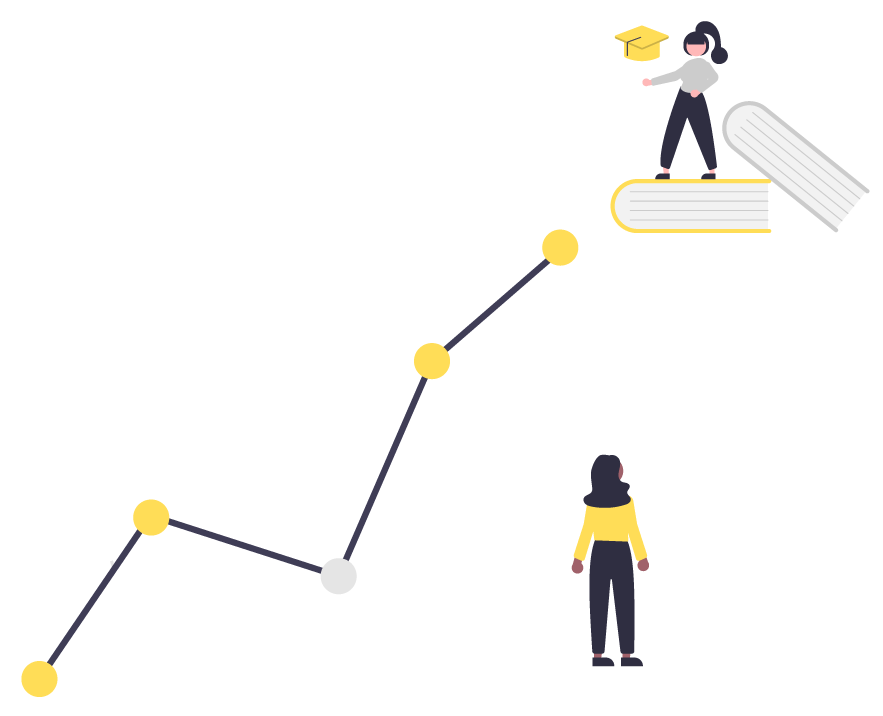
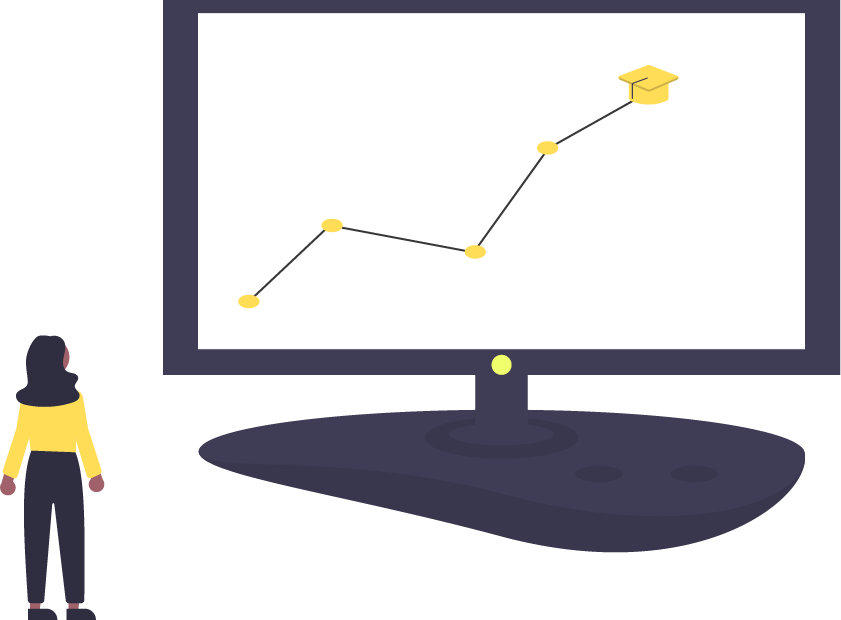
fix home page (front)

diff --git a/resources/views/components/navbar.blade.php b/resources/views/components/navbar.blade.php
@@ -2,8 +2,8 @@
     <nav class="navbar">
         <div class="container">
             <div class="navbar-brand">
-                <a  href="../">
-                    <img src="{{asset('/images/logo_siraj.png')}}" width="120">
+                <a href="../">
+                    <img src="{{ asset('/images/logo_siraj.png') }}" width="120">
                 </a>
                 <span class="navbar-burger burger" data-target="navbarMenu">
                     <span></span>
@@ -11,38 +11,48 @@
                     <span></span>
                 </span>
             </div>
-            <div id="navbarMenu" class="navbar-menu">
+            <div id="navbarMenu" class="navbar-menu  is-family-cairo">
                 <div class="navbar-end">
                     <span class="navbar-item">
-                        <a class="button is-warning  has-text-black is-outlined" href="{{ route('home') }}">
+                        <a class="button is-warning  has-text-black is-outlined" href="{{ route('home') }}"
+                            style="border: none">
                             <span class="icon">
-                                <i class="mdi mdi-home"></i>
+                                <i class="mdi mdi-home" style="font-size: 1.5rem"></i>
                             </span>
-                            <span>Home</span>
+                            <span style="font-size:1.2rem">Home</span>
                         </a>
                     </span>
                     <span class="navbar-item">
-                        <a class="button is-warning  has-text-black is-outlined" href="{{ route('course.index') }}">
+                        <a class="button  is-warning has-text-black is-outlined"
+                            href="{{ route('course.index') }}" style="
+                        border: none;
+                        ">
                             <span class="icon">
-                                <i class="mdi mdi-school"></i>
+                                <i class="mdi mdi-school"style="font-size: 1.5rem"></i>
                             </span>
-                            <span>Courses</span>
+                            <span style="font-size:1.2rem">Courses</span>
+                        </a>
+                    </span>
+                    <span class="navbar-item divclass">
+                        <a class="button is-warning has-text-black is-outlined" href="{{ route('login') }}"
+                            style="
+                        border: none;
+                        ">
+                            <span class="icon">
+                                <i class="mdi mdi-login"style="font-size: 1.5rem"></i>
+                            </span>
+                            <span style="font-size:1.2rem">Login</span>
                         </a>
                     </span>
                     <span class="navbar-item">
-                        <a class="button is-warning has-text-black is-outlined" href="{{ route('login') }}">
+                        <a class="button is-warning  has-text-black is-outlined" href="{{ route('register') }}"
+                            style="
+                        border: none;
+                        ">
                             <span class="icon">
-                                <i class="mdi mdi-book"></i>
+                                <i class="mdi mdi-book"style="font-size: 1.5rem"></i>
                             </span>
-                            <span>Login</span>
-                        </a>
-                    </span>
-                    <span class="navbar-item">
-                        <a class="button is-warning has-text-black is-outlined" href="{{ route('register') }}">
-                            <span class="icon">
-                                <i class="mdi mdi-github"></i>
-                            </span>
-                            <span>Register</span>
+                            <span style="font-size:1.2rem">Register</span>
                         </a>
                     </span>
                 </div>

diff --git a/resources/views/home.blade.php b/resources/views/home.blade.php
@@ -6,19 +6,25 @@
         <div class="hero-body">
             <div class="container has-text-left">
                 <div class="columns mt-6">
-                    <div class="column is-4 ml-4 mt-12">
+                    <div class="column is-4  mt-12" style="margin-left: 100px; padding-left:4%; padding-top:-0%; ">
                         <h1 class="title has-text-weight-bold is-size-1 mb-0">
-                            SIRAJ
+                            <span style="font-size: 3.5rem">S</span>iraj
                         </h1>
-                        <h4 class="subtitle is-size-4 mb-4">
-                            A People Without Education Is Like<br>A Building Without A Foundation
+                        <h4 class="subtitle is-size-4 has-text-weight-medium mb-4">
+                            People Without Education Is Like<br> Building Without Foundation.
                         </h4>
+                        <img src="{{ asset('/images/header_left_imag.png') }}"  style="
+                        position: absolute;
+                        top: -15%;
+                        left: -3%;">
                         <div class="buttons">
-                            <button class="button is-warning is-large has-text-weight-light has-text-dark">PICK A
+                            <button class="button is-warning is-large has-text-weight-bold has-text-weight-light has-text-dark" style="position: absolute;
+                            top: 100%;
+                            left: 46%;">PICK A
                                 COURSE</button>
                         </div>
                     </div>
-                    <div class="column is-8" style="margin-top: -7%; margin-left: 5%">
+                    <div class="column is-8" style="margin-top: -8%; margin-left: 9%">
                         <img src="{{ asset('/images/header.png') }}" width="690">
                     </div>
                 </div>
